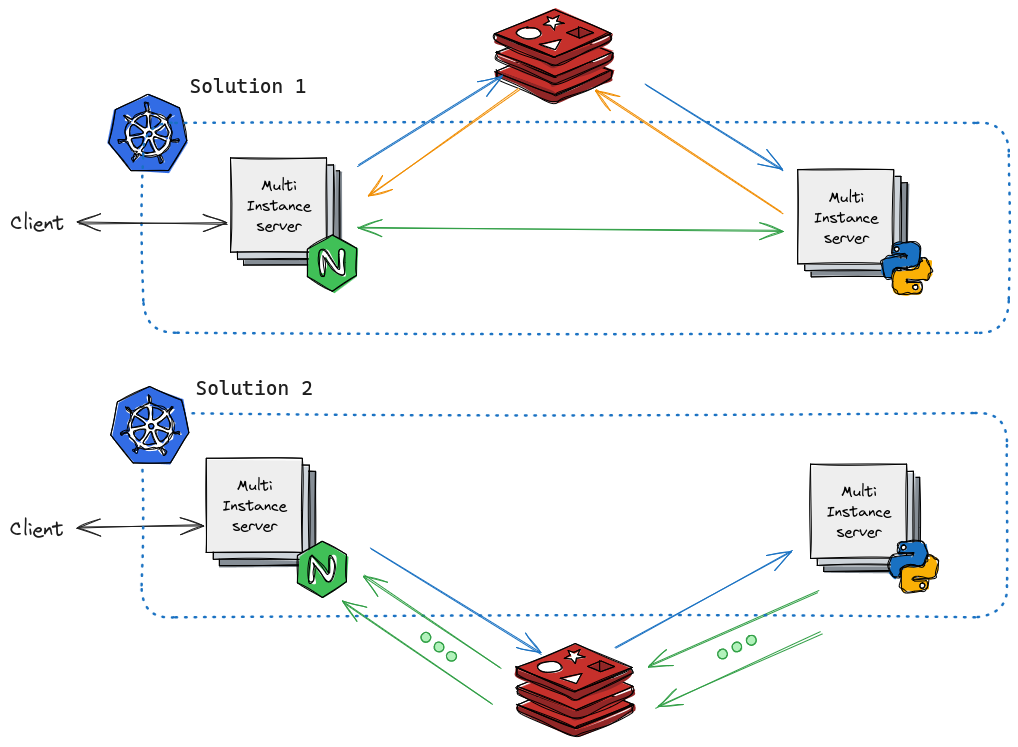
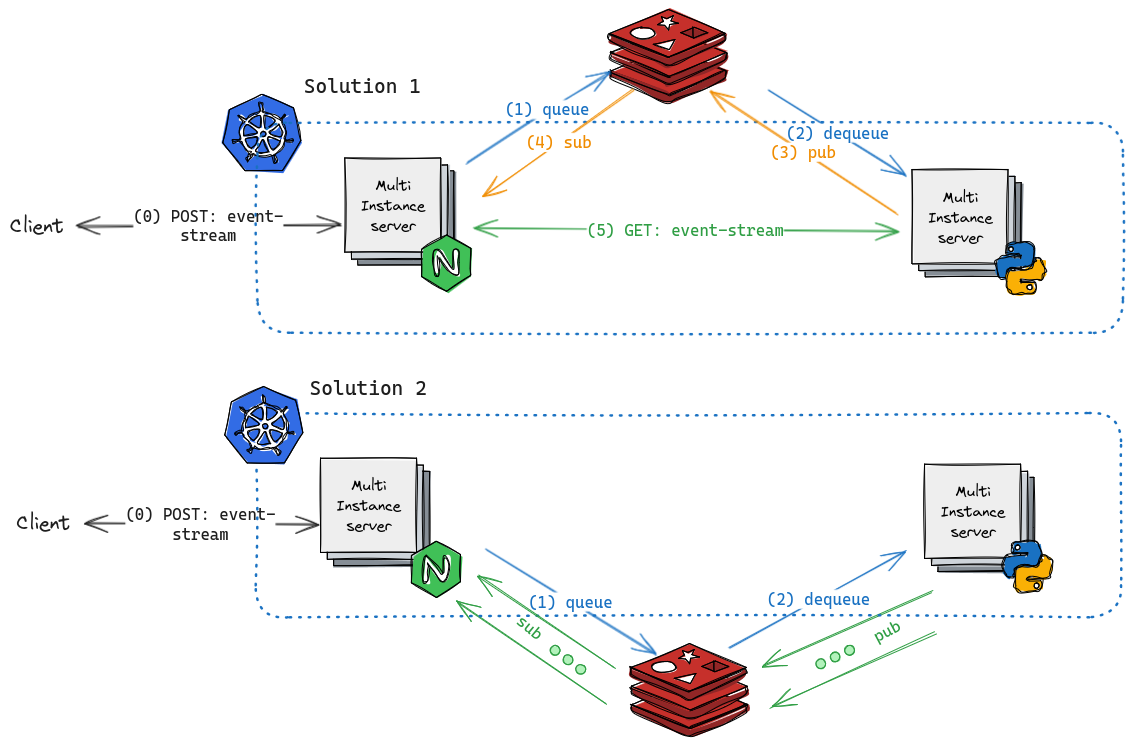
Update readme

diff --git a/README.md b/README.md
@@ -1,8 +1,10 @@
 # PoC: Text Streaming between microservices inside K8s using Redis
 
-Exploring ways to stream data between 2 microservices (`Node-MS` and `Python-MS`) inside k8s. 
+Exploring ways to stream data between 2 microservices (`Node-MS` and `Python-MS`) inside k8s.
 
-Using Redis as a a median or a facilitator. 
+We will use Redis as a message broker/Queue to enable "async" communication between the services.
+
+This is a PoC, and it's not intended to be used in production.
 
 <p align="center">
   <img alt="diagram" src="./assets/diag.png" height="500" />
@@ -11,13 +13,15 @@ Using Redis as a a median or a facilitator.
 
 ## Solution 1:
 
+Redis as a job orchestrator
+
 - The client queries Node-MS with a text to be processed. Node-MS will keep the connection open.
 
-- Node-Ms will publish a message with the text to be processed.
+- Node-Ms will queue a "job" with the text to be processed and an ID.
 
-- After the message is received by Python-MS, it will publish a message containing its IP and the message ID.
+- After the dequeuing the job, Python-MS will publish a message containing its IP and the message ID.
 
-- Node-MS, after receiving the message, will check if the ID belongs to that MS instance. If it does, it will send a GET request to Python-MS to get the data as a stream.
+- After receiving the message, each Node-MS instance will check if the job ID belongs it. If it does, it will send a GET request to Python-MS to get the data as a stream.
 
 - Node-MS will forward the results to the client as a stream.
 
@@ -27,22 +31,16 @@ Using Redis as a a median or a facilitator.
 
 ## Solution 2:
 
-- We only use Redis Pub/Sub to communicate between microservices.
+Redis as the main communication channel:
 
 - The client queries Node-MS with a text to be processed. Node-MS will keep the connection open.
 
-- Node-Ms will publish a message with the text to be processed.
+- Node-Ms will queue a "job" with the text to be processed and an ID.
 
-- Python-MS will receive the message and process it.
+- After the dequeuing the job, Python-MS will start publishing the results in chunks to a Redis channel (attaching the job ID to each message).
 
-- Python-MS will start publishing the results to a channel.
-
-- Node-MS will subscribe to the channel and forward the results to the client.
-
+- Upon receiving any message, each Node-MS instance will check if the job ID belongs it. If it does, it will write that message data to the client.
 
 <p align="center">
   <img alt="diagram" src="./assets/solution-2-seq.png" height="500" />
 </p>
-
-
-
